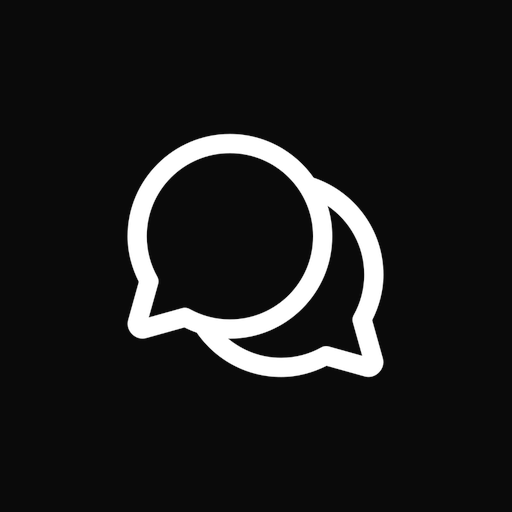
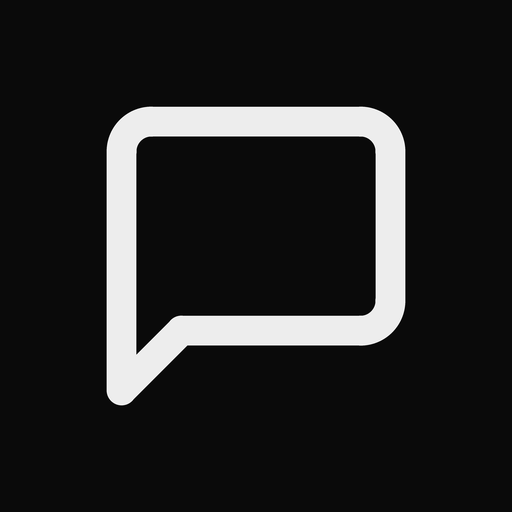
v2

Changed region(s): [[0.1875, 0.1875, 0.8125, 0.8125]]

diff --git a/frontend/index.html b/frontend/index.html
@@ -38,8 +38,8 @@
 
     <!-- Navigation -->
     <nav class="relative z-10 w-full p-4 md:p-6 flex flex-col sm:flex-row justify-between items-center gap-4 sm:gap-0 max-w-6xl mx-auto">
-        <div class="flex items-center gap-2 text-xl font-semibold tracking-tight text-white">
-            <svg class="w-6 h-6 text-white shrink-0" fill="none" stroke="currentColor" viewBox="0 0 24 24" stroke-width="2" stroke-linecap="round" stroke-linejoin="round"><path d="M21 15a2 2 0 0 1-2 2H7l-4 4V5a2 2 0 0 1 2-2h14a2 2 0 0 1 2 2z"></path></svg>
+        <div class="flex items-center gap-3 text-xl font-semibold tracking-tight text-white">
+            <img src="icon-192.png" alt="QuickChat Logo" class="w-8 h-8 rounded-md shrink-0 border border-border">
             QuickChat
         </div>
         <div class="flex items-center gap-4">